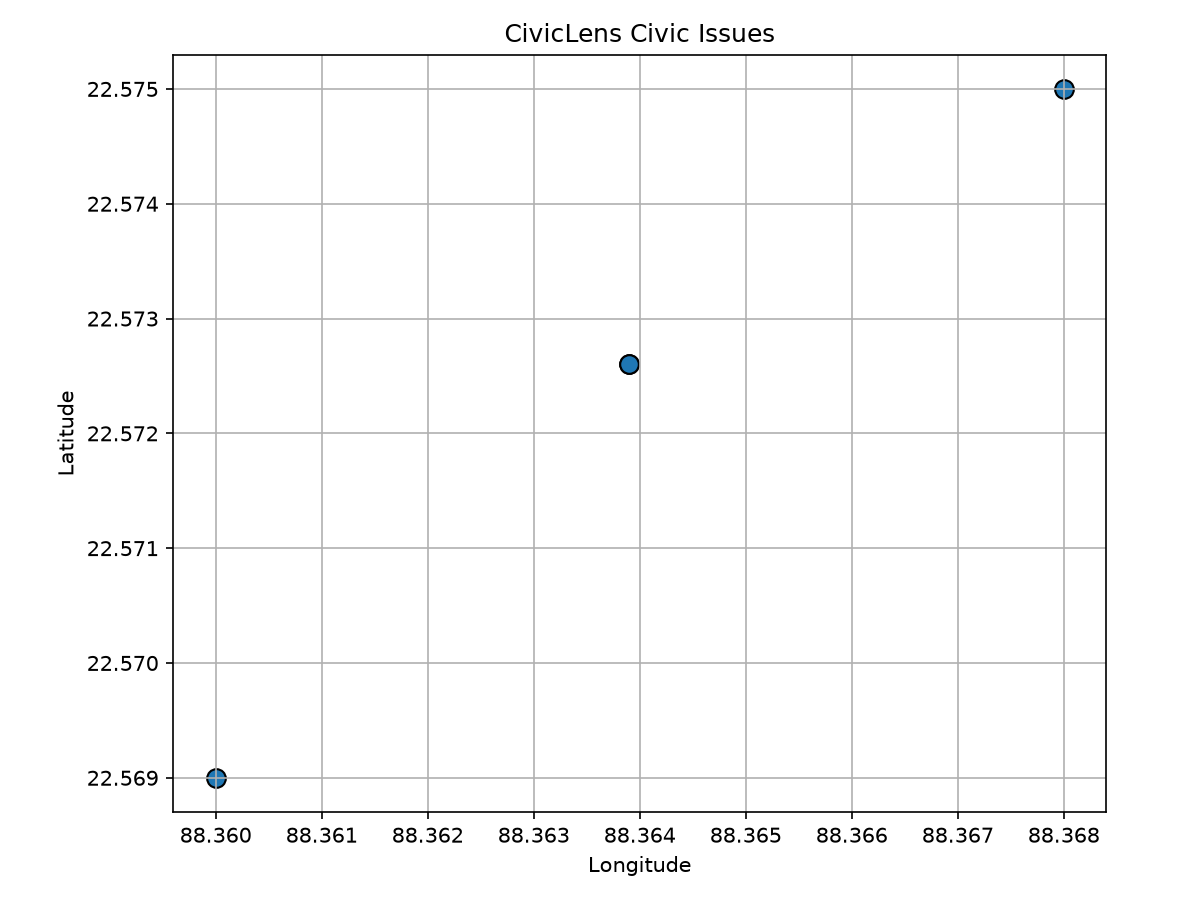
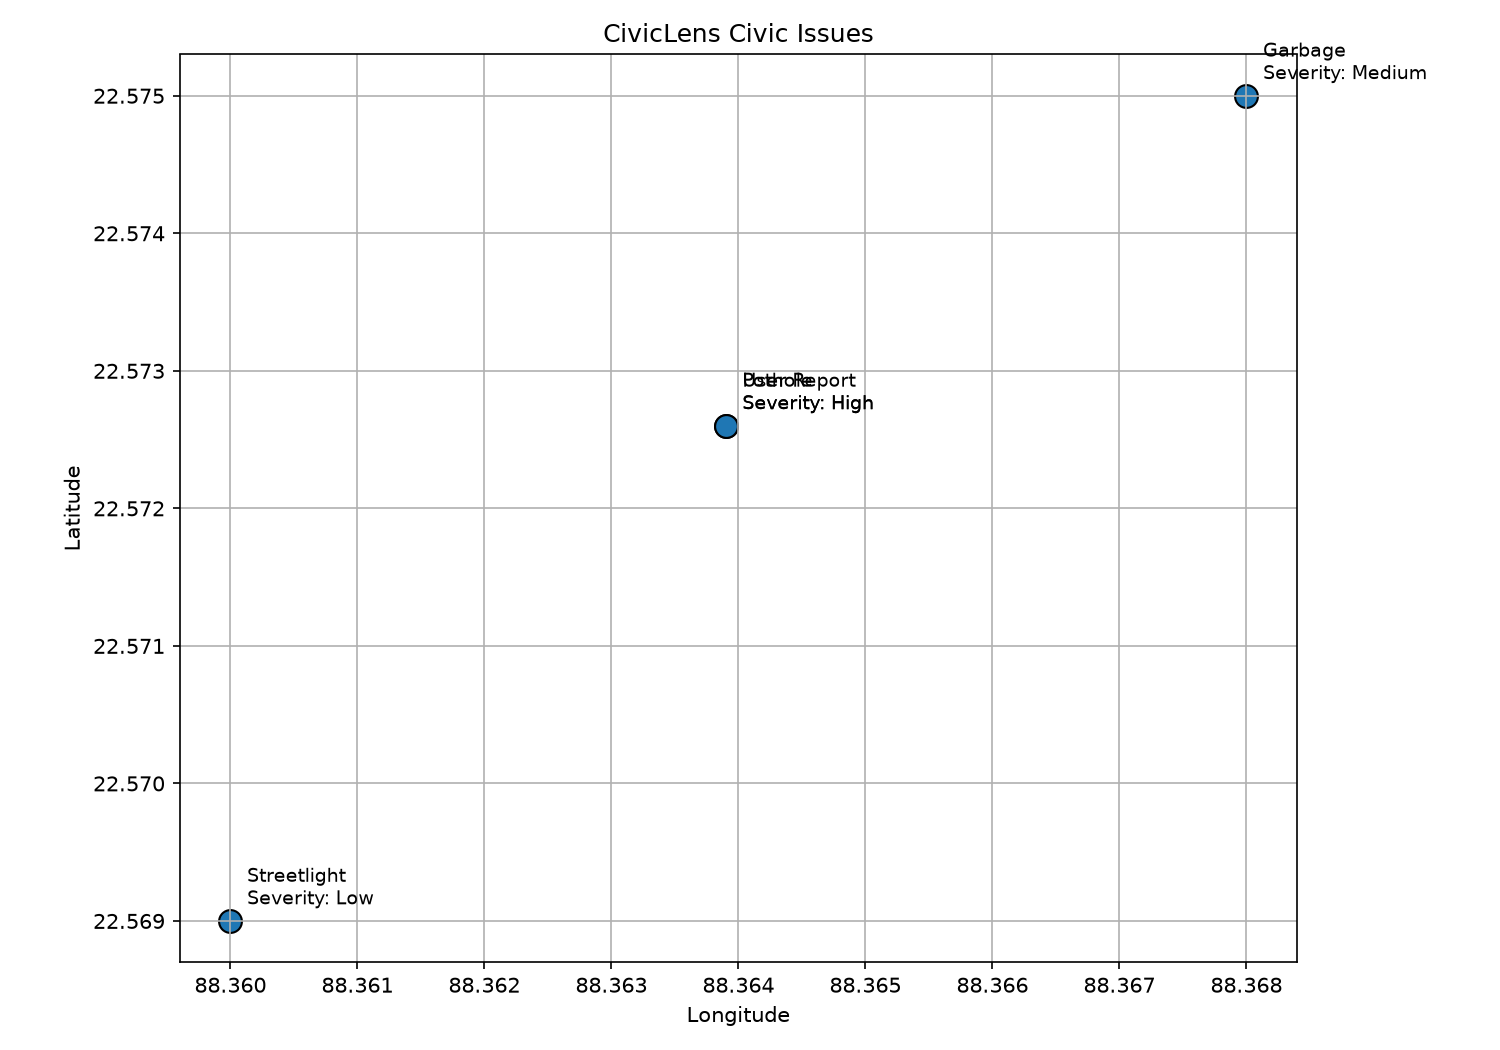
to-do list completed

diff --git a/gis/src/gis_demo.py b/gis/src/gis_demo.py
@@ -1,5 +1,4 @@
 import argparse
-import json
 from pathlib import Path
 
 import geopandas as gpd
@@ -39,24 +38,28 @@ def create_issue_points(latitude, longitude):
         {
             "issueId": "CL-001",
             "issueType": "Pothole",
+            "severity": "High",
             "latitude": 22.5726,
             "longitude": 88.3639,
         },
         {
             "issueId": "CL-002",
             "issueType": "Garbage",
+            "severity": "Medium",
             "latitude": 22.5750,
             "longitude": 88.3680,
         },
         {
             "issueId": "CL-003",
             "issueType": "Streetlight",
+            "severity": "Low",
             "latitude": 22.5690,
             "longitude": 88.3600,
         },
         {
             "issueId": "USER-001",
             "issueType": "User Report",
+            "severity": "High",
             "latitude": latitude,
             "longitude": longitude,
         },
@@ -89,16 +92,37 @@ def export_geojson(gdf, output_path):
 
 
 def plot_issues(gdf, output_path):
-    """Plot civic issue points and save the map as PNG."""
+    """Plot multiple civic issue points with labels."""
 
     output_path = Path(output_path)
     output_path.parent.mkdir(parents=True, exist_ok=True)
 
-    ax = gdf.plot(
-        figsize=(8, 6),
-        markersize=80,
+    fig, ax = plt.subplots(figsize=(10, 7))
+
+    # Plot all civic issue points
+    gdf.plot(
+        ax=ax,
+        markersize=120,
         edgecolor="black",
     )
+
+    # Add issue information beside every marker
+    for _, issue in gdf.iterrows():
+        x = issue.geometry.x
+        y = issue.geometry.y
+
+        label = (
+            f"{issue['issueType']}\n"
+            f"Severity: {issue['severity']}"
+        )
+
+        ax.annotate(
+            label,
+            xy=(x, y),
+            xytext=(8, 8),
+            textcoords="offset points",
+            fontsize=9,
+        )
 
     ax.set_title("CivicLens Civic Issues")
     ax.set_xlabel("Longitude")

diff --git a/gis/src/spatial.py b/gis/src/spatial.py
@@ -1,0 +1,84 @@
+from math import radians, sin, cos, sqrt, atan2
+
+try:
+    from .gis_demo import validate_coordinates
+except ImportError:
+    from gis_demo import validate_coordinates
+
+
+# Earth's approximate radius in meters
+EARTH_RADIUS_METERS = 6_371_000
+
+
+def calculate_distance(
+    latitude1,
+    longitude1,
+    latitude2,
+    longitude2,
+):
+    """
+    Calculate the great-circle distance between
+    two geographic coordinates using the Haversine formula.
+
+    Returns:
+        Distance in meters.
+    """
+
+    validate_coordinates(latitude1, longitude1)
+    validate_coordinates(latitude2, longitude2)
+
+    lat1 = radians(latitude1)
+    lon1 = radians(longitude1)
+
+    lat2 = radians(latitude2)
+    lon2 = radians(longitude2)
+
+    delta_lat = lat2 - lat1
+    delta_lon = lon2 - lon1
+
+    a = (
+        sin(delta_lat / 2) ** 2
+        + cos(lat1)
+        * cos(lat2)
+        * sin(delta_lon / 2) ** 2
+    )
+
+    c = 2 * atan2(sqrt(a), sqrt(1 - a))
+
+    return EARTH_RADIUS_METERS * c
+
+
+def issues_near_location(
+    gdf,
+    latitude,
+    longitude,
+    radius_meters,
+):
+    """
+    Return civic issues within radius_meters
+    of the given location.
+
+    The input GeoDataFrame must use EPSG:4326.
+    """
+
+    validate_coordinates(latitude, longitude)
+
+    if radius_meters < 0:
+        raise ValueError("Radius cannot be negative.")
+
+    distances = gdf.geometry.apply(
+        lambda point: calculate_distance(
+            latitude,
+            longitude,
+            point.y,
+            point.x,
+        )
+    )
+
+    result = gdf.copy()
+
+    result["distance_meters"] = distances
+
+    return result[
+        result["distance_meters"] <= radius_meters
+    ].copy()

diff --git a/gis/tests/test_spatial.py b/gis/tests/test_spatial.py
@@ -1,0 +1,64 @@
+import geopandas as gpd
+import pytest
+from shapely.geometry import Point
+
+from src.spatial import (
+    calculate_distance,
+    issues_near_location,
+)
+
+
+def test_distance_same_coordinate():
+    distance = calculate_distance(
+        22.5726,
+        88.3639,
+        22.5726,
+        88.3639,
+    )
+
+    assert distance == pytest.approx(0, abs=0.001)
+
+
+def test_distance_is_positive():
+    distance = calculate_distance(
+        22.5726,
+        88.3639,
+        22.5750,
+        88.3680,
+    )
+
+    assert distance > 0
+
+
+def test_invalid_coordinate():
+    with pytest.raises(ValueError):
+        calculate_distance(
+            100,
+            88.3639,
+            22.5726,
+            88.3639,
+        )
+
+
+def test_issues_near_location():
+    gdf = gpd.GeoDataFrame(
+        {
+            "issueId": ["CL-001", "CL-002"],
+            "issueType": ["Pothole", "Garbage"],
+        },
+        geometry=[
+            Point(88.3639, 22.5726),
+            Point(88.3680, 22.5750),
+        ],
+        crs="EPSG:4326",
+    )
+
+    result = issues_near_location(
+        gdf,
+        22.5726,
+        88.3639,
+        100,
+    )
+
+    assert "CL-001" in result["issueId"].values
+    

diff --git a/gis/tests/test_geojson.py b/gis/tests/test_geojson.py
@@ -1,0 +1,38 @@
+import json
+
+from src.gis_demo import create_issue_points, export_geojson
+
+
+def test_geojson_output(tmp_path):
+    gdf = create_issue_points(
+        22.5726,
+        88.3639,
+    )
+
+    output_file = tmp_path / "issues.geojson"
+
+    export_geojson(
+        gdf,
+        output_file,
+    )
+
+    with open(output_file, "r", encoding="utf-8") as file:
+        data = json.load(file)
+
+    assert data["type"] == "FeatureCollection"
+
+    assert len(data["features"]) == 4
+
+    first_feature = data["features"][0]
+
+    assert first_feature["geometry"]["type"] == "Point"
+
+    assert first_feature["geometry"]["coordinates"] == [
+        88.3639,
+        22.5726,
+    ]
+
+    assert first_feature["properties"]["issueType"] == "Pothole"
+
+    assert first_feature["properties"]["severity"] == "High"
+    

diff --git a/gis/src/run_spatial_demo.py b/gis/src/run_spatial_demo.py
@@ -1,0 +1,34 @@
+from gis_demo import create_issue_points
+from spatial import issues_near_location
+
+
+def main():
+    latitude = 22.5726
+    longitude = 88.3639
+
+    # Create the CivicLens issue dataset
+    gdf = create_issue_points(latitude, longitude)
+
+    # Find issues within 500 meters
+    nearby = issues_near_location(
+        gdf,
+        latitude,
+        longitude,
+        500,
+    )
+
+    print("Issues within 500 meters:")
+    print()
+
+    for _, issue in nearby.iterrows():
+        print(
+            f"{issue['issueId']} | "
+            f"{issue['issueType']} | "
+            f"{issue['severity']} | "
+            f"{issue['distance_meters']:.2f} meters"
+        )
+
+
+if __name__ == "__main__":
+    main()
+    
